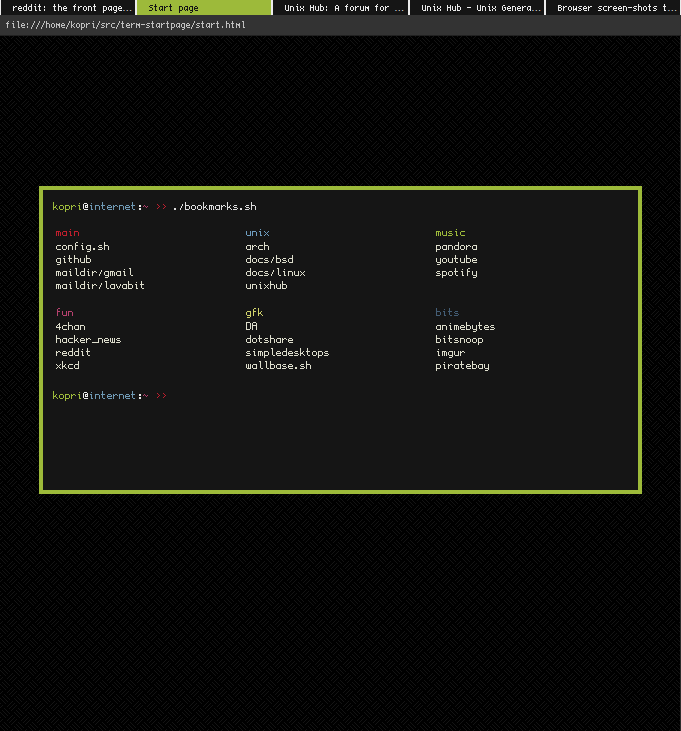
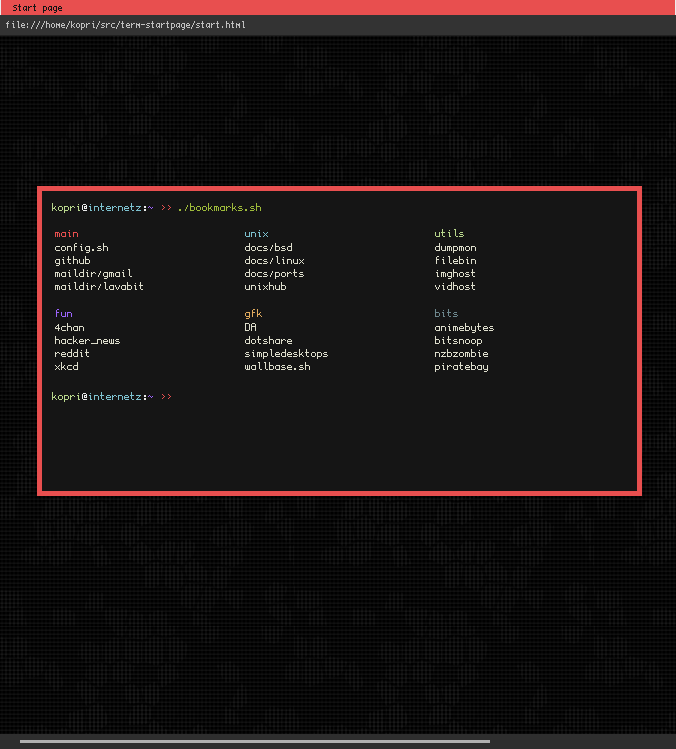
Updated browser start page

diff --git a/browser-startpage/start.html b/browser-startpage/start.html
@@ -5,36 +5,36 @@
 
 <style type="text/css">
 html {background: #222222 url(bg.png) repeat; text-align: center;font-size: 13px;}
-body {background-color: #151515; font-family: monospace;  width: 585px; height: 290px; display: block; padding: 5px; text-align: left; margin: 150 auto; border: #9DBA3A solid 4px; color: #DDDDCC;}
+body {background-color: #151515; font-family: monospace;  width: 585px; height: 290px; display: block; padding: 5px; text-align: left; margin: 150 auto; border: #E84F4f solid 5px; color: #DDDDCC;}
 a {color: #DDC;  text-decoration: none; display: block; float: none;}
 p {margin: 0;}
 div.grp {width: 180px; float: left; margin: 5px;}
 .main a:hover {color: #D81860;}
-.music a:hover {color: #B7CE42;}
+.utils a:hover {color: #B7CE42;}
 .unix a:hover {color: #6F99B4;}
 .fun a:hover {color: #FEA63C;}
 .gfx a:hover {color: #8B7B8B;}
 .bits a:hover {color: #A7A15E;}
 
-.main p {color: #BF1E2D;}
-.music p {color: #9DBA3A;}
-.unix p {color: #6d9cbe;}
-.fun p {color: #B7416E;}
-.gfx p {color: #d0d26b;}
-.bits p {color: #435d75;}
+.main p {color: #E84F4F;}
+.utils p {color: #B8D68C;}
+.unix p {color: #7DC1Cf;}
+.fun p {color: #9B64FB;}
+.gfx p {color: #E1AA5D;}
+.bits p {color: #6D878D;}
 
 a:hover {text-decoration: none;}
-.t {padding: 5px; color: #DDD;display: block; width: 850px;}
-.u {color: #9DBA3A;}
-.l {color: #6F99B4;}
-.p {color: #BF1E2D;}
+.t {padding: 5px; color: #9DBA3A;display: block; width: 850px;}
+.u {color: #B8D68C;}
+.l {color: #7DC1CF;}
+.p {color: #E84F4F;}
 .at {color: #EBEBEB;}
-.d {color: #B7416E;}
+.d {color: #9B64FB;}
 input {background-color: #151515; color: #DDD; border: none; font-family: monospace;} 
 </style>
 
 <body>
-  <span class="t"><tt class="u">kopri</tt><tt class="at">@</tt><tt class="l">internet</tt><tt class="at">:</tt><tt class="d">~</tt> <tt class="p">>></tt> <tt>bookmarks.sh</tt></span>
+  <span class="t"><tt class="u">kopri</tt><tt class="at">@</tt><tt class="l">internetz</tt><tt class="at">:</tt><tt class="d">~</tt> <tt class="p">>></tt> <tt>./bookmarks.sh</tt></span>
 
 <table>
 <tr><td>
@@ -48,17 +48,18 @@ input {background-color: #151515; color: #DDD; border: none; font-family: monosp
 
 <div class="grp unix">
   <p>unix</p>
-<a href="http://archlinux.org">arch</a>
 <a href="http://bsd.org">docs/bsd</a>
 <a href="http://tldp.org">docs/linux</a>
+<a href="https://www.freshports.org">docs/ports</a>
 <a href="http://unixhub.net">unixhub</a>
 </div>
 
-<div class="grp music">
-<p>music</p>
-<a href="http://https://www.pandora.com">pandora</a>
-<a href="http://youtube.com">youtube</a>
-<a href="http://spotify.com">spotify</a>
+<div class="grp utils">
+<p>utils</p>
+<a href="https://twitter.com/dumpmon">dumpmon</a>
+<a href="http://paste.unixhub.net">filebin</a>
+<a href="http://imgur.com">imghost</a>
+<a href="http://youtube.com">vidhost</a>
 </div>
 </td></tr>
 <tr><td>
@@ -82,14 +83,14 @@ input {background-color: #151515; color: #DDD; border: none; font-family: monosp
 <p>bits</p>
 <a href="https://animebytes.tv">animebytes</a>
 <a href="http://bitsnoop.com">bitsnoop</a>
-<a href="http://imgur.com">imgur</a>
+<a href="https://www.nzbzombie.com">nzbzombie</a>
 <a href="https://thepiratebay.sx">piratebay</a>
 </div>
 </td></tr>
 <tr><td></td></tr>
 </table>
 
-<span class="t"><tt class="u">kopri</tt><tt class="at">@</tt><tt class="l">internet</tt><tt class="at">:</at><tt class="d">~</tt><tt class="p"> >></tt><form action="https://startpage.com/do/search" name="searchbox" 
+<span class="t"><tt class="u">kopri</tt><tt class="at">@</tt><tt class="l">internetz</tt><tt class="at">:</at><tt class="d">~</tt><tt class="p"> >></tt><form action="https://startpage.com/do/search" name="searchbox" 
   method="get" style="margin-left: 10.8em; margin-top: -1.2em; " /> 
   <input type="hidden" name="hl" value="cz" /> 
   <input maxlength="250" size="50" tabindex="1" name="q" value="" /> 
